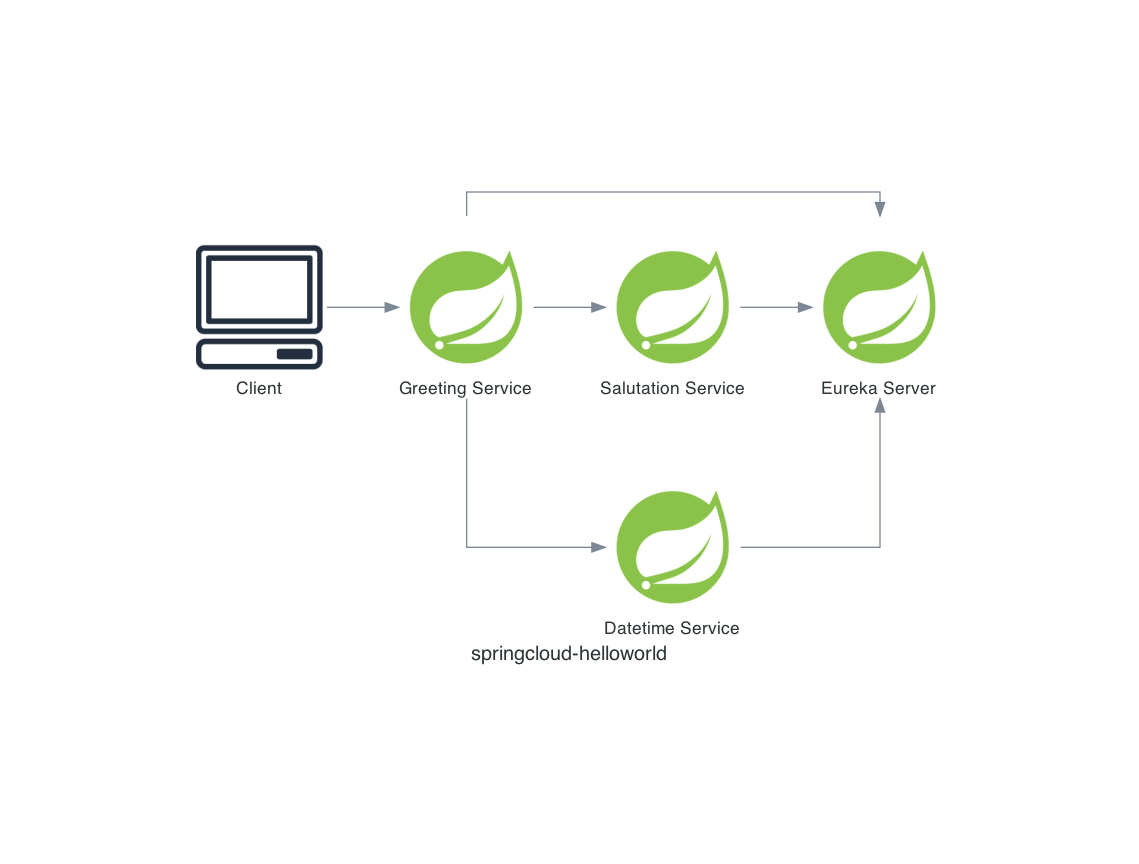
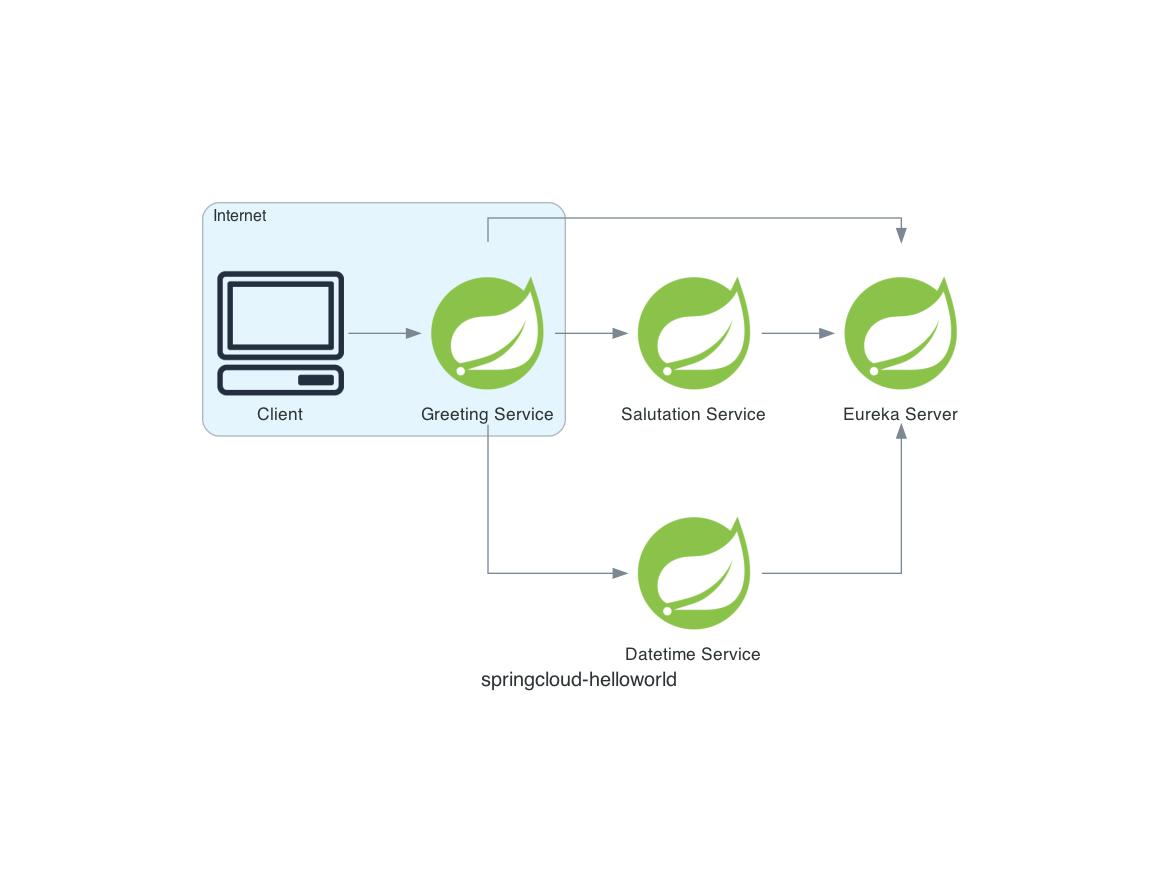
Cluster internet connected nodes

Changed region(s): [[0.1536, 0.2188, 0.8297, 0.7812]]

diff --git a/diagrams/diagram.py b/diagrams/diagram.py
@@ -1,18 +1,18 @@
 # use diagrams from https://github.com/mingrammer/diagrams
-from diagrams import Diagram
+from diagrams import Diagram, Cluster
 from diagrams.programming.framework import Spring
 from diagrams.onprem.client import Client
+
 with Diagram("springcloud-helloworld"):
+    with Cluster("Internet"):
+        client = Client("Client")
+        greeting = Spring("Greeting Service")
     eureka = Spring("Eureka Server")
-    greeting = Spring("Greeting Service")
     salutation = Spring("Salutation Service")
     datetime = Spring("Datetime Service")
-    client = Client("Client")
     client >> greeting
     greeting >> eureka
     greeting >> salutation
     greeting >> datetime
     salutation >> eureka
     datetime >> eureka
-
-
